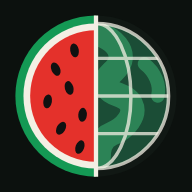
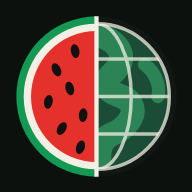
Marka: ad Bricolage Grotesque ile, slogan adla aynı taban çizgisinde; amblemde dış ve iç kabuk eşit kalınlıkta; uygulama simgeleri yenilendi
Claude-Session: https://claude.ai/code/session_01N4mESGnAHvEz15o6Ymy75N

diff --git a/site/stil.css b/site/stil.css
@@ -63,8 +63,8 @@ body.odak-modu .harita-bolum{display:none}
 .ust-ic{max-width:1240px;margin:0 auto;height:var(--ust);display:flex;align-items:center;gap:14px;padding:0 max(var(--kanat),env(safe-area-inset-right,0px)) 0 max(var(--kanat),env(safe-area-inset-left,0px))}
 .marka{display:flex;align-items:center;gap:10px;text-decoration:none;color:var(--ink)}
 .logo{width:32px;height:32px;display:block;flex:none;border:0;border-radius:0;background:none}
-.marka-ad{font-weight:800;font-size:1.3rem;letter-spacing:.06em}
-.slogan{margin:0;flex:1 1 auto;color:var(--soluk);font-size:.86rem;white-space:nowrap;overflow:hidden;text-overflow:ellipsis;min-width:0}
+.marka-ad{font-family:"Bricolage Grotesque",var(--f);font-weight:800;font-size:1.42rem;line-height:1;letter-spacing:-.025em;font-variation-settings:"opsz" 48}
+.slogan{margin:0;flex:1 1 auto;color:var(--soluk);font-size:.86rem;line-height:1;white-space:nowrap;overflow:hidden;text-overflow:ellipsis;min-width:0}
 .canli{display:flex;align-items:center;gap:8px;font-family:var(--mono);font-size:.74rem;color:var(--soluk);padding:5px 11px;border:1px solid var(--cizgi);border-radius:999px;background:var(--yuzey);white-space:nowrap}
 .nabiz{width:8px;height:8px;border-radius:50%;background:var(--yesil);box-shadow:0 0 0 0 color-mix(in srgb,var(--yesil) 60%,transparent);animation:nabiz 2s infinite}
 @keyframes nabiz{70%{box-shadow:0 0 0 7px transparent}100%{box-shadow:0 0 0 0 transparent}}
@@ -342,7 +342,7 @@ button.eylem{border:1px solid transparent;cursor:pointer;font-family:var(--f)}
   .ust-ic{gap:8px}
   .canli{display:none}
   .marka{flex:none}
-  .marka-ad{font-size:1.1rem}
+  .marka-ad{font-size:1.22rem}
   .menu{margin-left:auto;min-width:0;overflow-x:auto;scrollbar-width:none;gap:4px}
   .menu::-webkit-scrollbar{display:none}
   .menu a{padding:6px 9px;font-size:.8rem}

diff --git a/site/marka.js b/site/marka.js
@@ -27,7 +27,26 @@ window.MARKA = {
       if (a) e.setAttribute(a, yaz(e.getAttribute("data-marka-sablon"))); else e.textContent = yaz(e.getAttribute("data-marka-sablon"));
     });
   };
-  if (document.readyState === "loading") document.addEventListener("DOMContentLoaded", doldur); else doldur();
+  // Slogan, marka adıyla aynı taban çizgisine oturur: iki yazının taban çizgisi ölçülür, slogan farkı kadar kaydırılır
+  // (yazı tipleri farklı olduğu için dikeyde ortalamak taban çizgilerini hizalamıyor)
+  var taban = function (e) {
+    var i = document.createElement("i"); i.style.cssText = "display:inline-block;width:0;height:0;vertical-align:baseline";
+    e.appendChild(i); var y = i.getBoundingClientRect().top; i.remove(); return y;
+  };
+  var hizala = function () {
+    var ad = document.querySelector(".ust .marka-ad");
+    var sl = [].filter.call(document.querySelectorAll(".ust .slogan"), function (x) { return x.offsetParent && !x.hidden; })[0];
+    if (!ad || !sl) return;
+    sl.style.transform = "";
+    var d = taban(ad) - taban(sl);
+    if (Math.abs(d) < 12) sl.style.transform = "translateY(" + d.toFixed(1) + "px)";
+  };
+  var hazir = function () {
+    doldur(); hizala();
+    if (document.fonts && document.fonts.ready) document.fonts.ready.then(hizala);
+    addEventListener("resize", hizala);
+  };
+  if (document.readyState === "loading") document.addEventListener("DOMContentLoaded", hazir); else hazir();
   // Ziyaret sayacı (GoatCounter): çerez kullanmaz; yalnızca "goatcounter" alanı doluysa yüklenir
   if (M.goatcounter && /^[a-z0-9-]+$/.test(M.goatcounter)) {
     var g = document.createElement("script");

diff --git a/index.html b/index.html
@@ -19,17 +19,17 @@
 <link rel="manifest" href="manifest.webmanifest">
 <link rel="alternate" type="application/rss+xml" data-marka-sablon="{ad}" data-marka-oznitelik="title" title="Alboroto" href="data/rss.xml">
 <link rel="preconnect" href="https://fonts.googleapis.com">
-<link rel="stylesheet" href="https://fonts.googleapis.com/css2?family=Plus+Jakarta+Sans:wght@400;500;600;700;800&family=Source+Serif+4:opsz,wght@8..60,400;8..60,600;8..60,700;8..60,800&family=JetBrains+Mono:wght@400;500&display=swap">
-<link rel="stylesheet" href="site/stil.css?v=202611150130">
+<link rel="stylesheet" href="https://fonts.googleapis.com/css2?family=Plus+Jakarta+Sans:wght@400;500;600;700;800&family=Source+Serif+4:opsz,wght@8..60,400;8..60,600;8..60,700;8..60,800&family=JetBrains+Mono:wght@400;500&family=Bricolage+Grotesque:opsz,wght@12..96,700;12..96,800&display=swap">
+<link rel="stylesheet" href="site/stil.css?v=202611150230">
 <script src="site/dil.js?v=202611150150"></script>
-<script src="site/marka.js?v=202611150150"></script>
+<script src="site/marka.js?v=202611150230"></script>
 </head>
 <body>
 
 <header class="ust">
   <div class="ust-ic">
     <a class="marka" href="./" data-marka-sablon="{ad} ana sayfa" data-marka-oznitelik="aria-label" aria-label="Alboroto ana sayfa">
-      <img class="logo" src="site/logo.svg?v=202611081749" alt="" width="32" height="32">
+      <img class="logo" src="site/logo.svg?v=202611150230" alt="" width="32" height="32">
       <span class="marka-ad" data-marka="ad">Alboroto</span>
     </a>
     <p class="slogan" data-marka="slogan">Mağrip’ten Körfez’e basının Türkçe takibi</p>

diff --git a/ebu-safiye.html b/ebu-safiye.html
@@ -14,11 +14,11 @@
 <link rel="icon" href="site/logo.svg" type="image/svg+xml">
 <link rel="manifest" href="manifest.webmanifest">
 <link rel="preconnect" href="https://fonts.googleapis.com">
-<link rel="stylesheet" href="https://fonts.googleapis.com/css2?family=Plus+Jakarta+Sans:wght@400;500;600;700;800&family=Source+Serif+4:opsz,wght@8..60,400;8..60,600;8..60,700;8..60,800&family=JetBrains+Mono:wght@400;500&display=swap">
-<link rel="stylesheet" href="site/stil.css?v=202611150130">
+<link rel="stylesheet" href="https://fonts.googleapis.com/css2?family=Plus+Jakarta+Sans:wght@400;500;600;700;800&family=Source+Serif+4:opsz,wght@8..60,400;8..60,600;8..60,700;8..60,800&family=JetBrains+Mono:wght@400;500&family=Bricolage+Grotesque:opsz,wght@12..96,700;12..96,800&display=swap">
+<link rel="stylesheet" href="site/stil.css?v=202611150230">
 <link rel="stylesheet" href="site/rapor.css?v=202611112200">
 <script src="site/dil.js?v=202611150150"></script>
-<script src="site/marka.js?v=202611150150"></script>
+<script src="site/marka.js?v=202611150230"></script>
 <style>
 .hk{--serif:"Source Serif 4",Georgia,serif;max-width:880px;margin:0 auto;padding:0 max(16px,env(safe-area-inset-right,0px)) 80px max(16px,env(safe-area-inset-left,0px))}
 .hk-ust{background:#0c0e0d;color:#eceae3;padding:56px max(16px,env(safe-area-inset-right,0px)) 48px max(16px,env(safe-area-inset-left,0px))}

diff --git a/kaynaklar.html b/kaynaklar.html
@@ -10,10 +10,10 @@
 <link rel="icon" href="site/logo.svg" type="image/svg+xml">
 <link rel="manifest" href="manifest.webmanifest">
 <link rel="preconnect" href="https://fonts.googleapis.com">
-<link rel="stylesheet" href="https://fonts.googleapis.com/css2?family=Plus+Jakarta+Sans:wght@400;500;600;700;800&family=Source+Serif+4:opsz,wght@8..60,400;8..60,600;8..60,700;8..60,800&family=JetBrains+Mono:wght@400;500&display=swap">
-<link rel="stylesheet" href="site/stil.css?v=202611150130&o=202611111940">
+<link rel="stylesheet" href="https://fonts.googleapis.com/css2?family=Plus+Jakarta+Sans:wght@400;500;600;700;800&family=Source+Serif+4:opsz,wght@8..60,400;8..60,600;8..60,700;8..60,800&family=JetBrains+Mono:wght@400;500&family=Bricolage+Grotesque:opsz,wght@12..96,700;12..96,800&display=swap">
+<link rel="stylesheet" href="site/stil.css?v=202611150230&o=202611111940">
 <script src="site/dil.js?v=202611150150"></script>
-<script src="site/marka.js?v=202611150150"></script>
+<script src="site/marka.js?v=202611150230"></script>
 <style>
 /* Kaynaklar: üstte sağlık özeti, sonra bölgelere göre gruplanmış açık renkli kaynak kartları */
 .sayfa{max-width:1180px;margin:0 auto;padding:24px max(var(--kanat),env(safe-area-inset-right,0px)) 64px max(var(--kanat),env(safe-area-inset-left,0px));display:flex;flex-direction:column;gap:18px}

diff --git a/arsiv.html b/arsiv.html
@@ -10,10 +10,10 @@
 <link rel="icon" href="site/logo.svg" type="image/svg+xml">
 <link rel="manifest" href="manifest.webmanifest">
 <link rel="preconnect" href="https://fonts.googleapis.com">
-<link rel="stylesheet" href="https://fonts.googleapis.com/css2?family=Plus+Jakarta+Sans:wght@400;500;600;700;800&family=Source+Serif+4:opsz,wght@8..60,400;8..60,600;8..60,700;8..60,800&family=JetBrains+Mono:wght@400;500&display=swap">
-<link rel="stylesheet" href="site/stil.css?v=202611150130">
+<link rel="stylesheet" href="https://fonts.googleapis.com/css2?family=Plus+Jakarta+Sans:wght@400;500;600;700;800&family=Source+Serif+4:opsz,wght@8..60,400;8..60,600;8..60,700;8..60,800&family=JetBrains+Mono:wght@400;500&family=Bricolage+Grotesque:opsz,wght@12..96,700;12..96,800&display=swap">
+<link rel="stylesheet" href="site/stil.css?v=202611150230">
 <script src="site/dil.js?v=202611150150"></script>
-<script src="site/marka.js?v=202611150150"></script>
+<script src="site/marka.js?v=202611150230"></script>
 <style>
 /* Arşiv: solda günler, sağda o günün Türkçe özetleri; kompakt, okunur liste */
 .sayfa{max-width:1180px;margin:0 auto;padding:24px max(var(--kanat),env(safe-area-inset-right,0px)) 64px max(var(--kanat),env(safe-area-inset-left,0px));display:grid;grid-template-columns:220px minmax(0,1fr);gap:32px}

diff --git a/hakkimizda.html b/hakkimizda.html
@@ -11,10 +11,10 @@
 <link rel="icon" href="site/logo.svg" type="image/svg+xml">
 <link rel="manifest" href="manifest.webmanifest">
 <link rel="preconnect" href="https://fonts.googleapis.com">
-<link rel="stylesheet" href="https://fonts.googleapis.com/css2?family=Plus+Jakarta+Sans:wght@400;500;600;700;800&family=Source+Serif+4:opsz,wght@8..60,400;8..60,600;8..60,700;8..60,800&family=JetBrains+Mono:wght@400;500&display=swap">
-<link rel="stylesheet" href="site/stil.css?v=202611150130">
+<link rel="stylesheet" href="https://fonts.googleapis.com/css2?family=Plus+Jakarta+Sans:wght@400;500;600;700;800&family=Source+Serif+4:opsz,wght@8..60,400;8..60,600;8..60,700;8..60,800&family=JetBrains+Mono:wght@400;500&family=Bricolage+Grotesque:opsz,wght@12..96,700;12..96,800&display=swap">
+<link rel="stylesheet" href="site/stil.css?v=202611150230">
 <script src="site/dil.js?v=202611150150"></script>
-<script src="site/marka.js?v=202611150150"></script>
+<script src="site/marka.js?v=202611150230"></script>
 <style>
 /* Hakkımızda: okunur tek sütun metin, bakış ölçeği görseli, bölüm kartları */
 .sayfa{max-width:860px;margin:0 auto;padding:28px max(var(--kanat),env(safe-area-inset-right,0px)) 72px max(var(--kanat),env(safe-area-inset-left,0px));display:flex;flex-direction:column;gap:20px}

diff --git a/raporlar.html b/raporlar.html
@@ -11,11 +11,11 @@
 <link rel="icon" href="site/logo.svg" type="image/svg+xml">
 <link rel="manifest" href="manifest.webmanifest">
 <link rel="preconnect" href="https://fonts.googleapis.com">
-<link rel="stylesheet" href="https://fonts.googleapis.com/css2?family=Plus+Jakarta+Sans:wght@400;500;600;700;800&family=Source+Serif+4:opsz,wght@8..60,400;8..60,600;8..60,700;8..60,800&family=JetBrains+Mono:wght@400;500&display=swap">
-<link rel="stylesheet" href="site/stil.css?v=202611150130">
+<link rel="stylesheet" href="https://fonts.googleapis.com/css2?family=Plus+Jakarta+Sans:wght@400;500;600;700;800&family=Source+Serif+4:opsz,wght@8..60,400;8..60,600;8..60,700;8..60,800&family=JetBrains+Mono:wght@400;500&family=Bricolage+Grotesque:opsz,wght@12..96,700;12..96,800&display=swap">
+<link rel="stylesheet" href="site/stil.css?v=202611150230">
 <link rel="stylesheet" href="site/rapor.css?v=202611112330">
 <script src="site/dil.js?v=202611150150"></script>
-<script src="site/marka.js?v=202611150150"></script>
+<script src="site/marka.js?v=202611150230"></script>
 <style>.rp-dizin{display:grid;gap:14px}</style>
 </head>
 <body class="rapor-govde">

diff --git a/almanak.html b/almanak.html
@@ -11,11 +11,11 @@
 <link rel="icon" href="site/logo.svg" type="image/svg+xml">
 <link rel="manifest" href="manifest.webmanifest">
 <link rel="preconnect" href="https://fonts.googleapis.com">
-<link rel="stylesheet" href="https://fonts.googleapis.com/css2?family=Plus+Jakarta+Sans:wght@400;500;600;700;800&family=Source+Serif+4:opsz,wght@8..60,400;8..60,600;8..60,700;8..60,800&family=JetBrains+Mono:wght@400;500&display=swap">
-<link rel="stylesheet" href="site/stil.css?v=202611150130">
+<link rel="stylesheet" href="https://fonts.googleapis.com/css2?family=Plus+Jakarta+Sans:wght@400;500;600;700;800&family=Source+Serif+4:opsz,wght@8..60,400;8..60,600;8..60,700;8..60,800&family=JetBrains+Mono:wght@400;500&family=Bricolage+Grotesque:opsz,wght@12..96,700;12..96,800&display=swap">
+<link rel="stylesheet" href="site/stil.css?v=202611150230">
 <link rel="stylesheet" href="site/rapor.css?v=202611112200">
 <script src="site/dil.js?v=202611150150"></script>
-<script src="site/marka.js?v=202611150150"></script>
+<script src="site/marka.js?v=202611150230"></script>
 <link rel="stylesheet" href="site/kitap.css?v=202611141000">
 
 </head>

diff --git a/isimler.html b/isimler.html
@@ -13,11 +13,11 @@
 <link rel="icon" href="site/logo.svg" type="image/svg+xml">
 <link rel="manifest" href="manifest.webmanifest">
 <link rel="preconnect" href="https://fonts.googleapis.com">
-<link rel="stylesheet" href="https://fonts.googleapis.com/css2?family=Plus+Jakarta+Sans:wght@400;500;600;700;800&family=Source+Serif+4:opsz,wght@8..60,400;8..60,600;8..60,700;8..60,800&family=Noto+Naskh+Arabic:wght@400;600&display=swap">
-<link rel="stylesheet" href="site/stil.css?v=202611150130">
+<link rel="stylesheet" href="https://fonts.googleapis.com/css2?family=Plus+Jakarta+Sans:wght@400;500;600;700;800&family=Source+Serif+4:opsz,wght@8..60,400;8..60,600;8..60,700;8..60,800&family=Noto+Naskh+Arabic:wght@400;600&family=Bricolage+Grotesque:opsz,wght@12..96,700;12..96,800&display=swap">
+<link rel="stylesheet" href="site/stil.css?v=202611150230">
 <link rel="stylesheet" href="site/isimler.css?v=202611082300">
 <script src="site/dil.js?v=202611150150"></script>
-<script src="site/marka.js?v=202611150150"></script>
+<script src="site/marka.js?v=202611150230"></script>
 </head>
 <body class="isim-govde">
 <header class="ust">

diff --git a/profil.html b/profil.html
@@ -10,11 +10,11 @@
 <link rel="icon" href="site/logo.svg" type="image/svg+xml">
 <link rel="manifest" href="manifest.webmanifest">
 <link rel="preconnect" href="https://fonts.googleapis.com">
-<link rel="stylesheet" href="https://fonts.googleapis.com/css2?family=Plus+Jakarta+Sans:wght@400;500;600;700;800&family=Source+Serif+4:opsz,wght@8..60,400;8..60,600;8..60,700;8..60,800&family=JetBrains+Mono:wght@400;500&display=swap">
-<link rel="stylesheet" href="site/stil.css?v=202611150130">
+<link rel="stylesheet" href="https://fonts.googleapis.com/css2?family=Plus+Jakarta+Sans:wght@400;500;600;700;800&family=Source+Serif+4:opsz,wght@8..60,400;8..60,600;8..60,700;8..60,800&family=JetBrains+Mono:wght@400;500&family=Bricolage+Grotesque:opsz,wght@12..96,700;12..96,800&display=swap">
+<link rel="stylesheet" href="site/stil.css?v=202611150230">
 <link rel="stylesheet" href="site/profil.css?v=202611150130">
 <script src="site/dil.js?v=202611150150"></script>
-<script src="site/marka.js?v=202611150150"></script>
+<script src="site/marka.js?v=202611150230"></script>
 </head>
 <body class="profil-sayfa">
 <header class="ust">

diff --git a/kimin.html b/kimin.html
@@ -14,11 +14,11 @@
 <link rel="icon" href="site/logo.svg" type="image/svg+xml">
 <link rel="manifest" href="manifest.webmanifest">
 <link rel="preconnect" href="https://fonts.googleapis.com">
-<link rel="stylesheet" href="https://fonts.googleapis.com/css2?family=Plus+Jakarta+Sans:wght@400;500;600;700;800&family=Source+Serif+4:opsz,wght@8..60,400;8..60,600;8..60,700;8..60,800&family=JetBrains+Mono:wght@400;500&display=swap">
-<link rel="stylesheet" href="site/stil.css?v=202611150130">
+<link rel="stylesheet" href="https://fonts.googleapis.com/css2?family=Plus+Jakarta+Sans:wght@400;500;600;700;800&family=Source+Serif+4:opsz,wght@8..60,400;8..60,600;8..60,700;8..60,800&family=JetBrains+Mono:wght@400;500&family=Bricolage+Grotesque:opsz,wght@12..96,700;12..96,800&display=swap">
+<link rel="stylesheet" href="site/stil.css?v=202611150230">
 <link rel="stylesheet" href="site/rapor.css?v=202611120420">
 <script src="site/dil.js?v=202611150150"></script>
-<script src="site/marka.js?v=202611150150"></script>
+<script src="site/marka.js?v=202611150230"></script>
 </head>
 <body class="rapor-govde">
 <header class="ust">
